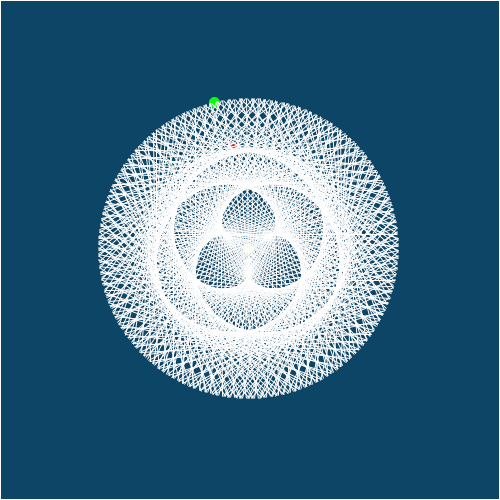
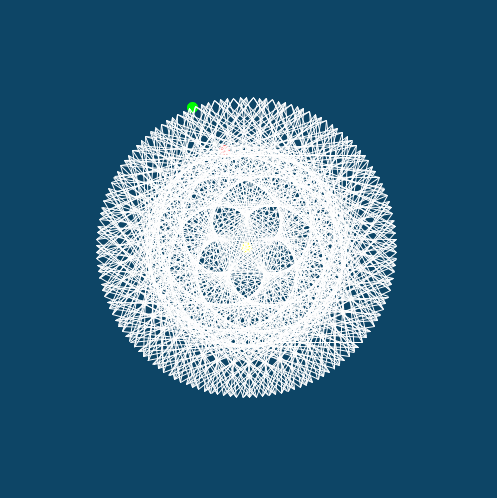
corrected relative orbits

Changed region(s): [[0.1807, 0.1807, 0.8133, 0.8133], [0.0, 0.994, 1.0, 1.0], [0.0, 0.0, 0.0301, 0.0301]]

diff --git a/orbit.py b/orbit.py
@@ -41,7 +41,7 @@ class Animation():
         root.mainloop()
 
     def rotate_earth(self):
-        theta = math.degrees(math.pi/36000*8.0)
+        theta = math.degrees(math.pi/36000*13.0)
 
         x = self.earth.x - 250
         y = self.earth.y - 250
@@ -56,7 +56,7 @@ class Animation():
         self.canvas.update()
 
     def rotate_venus(self):
-        theta = math.degrees(math.pi/36000*5.0)
+        theta = math.degrees(math.pi/36000*8.0)
 
         x = self.venus.x - 250
         y = self.venus.y - 250
